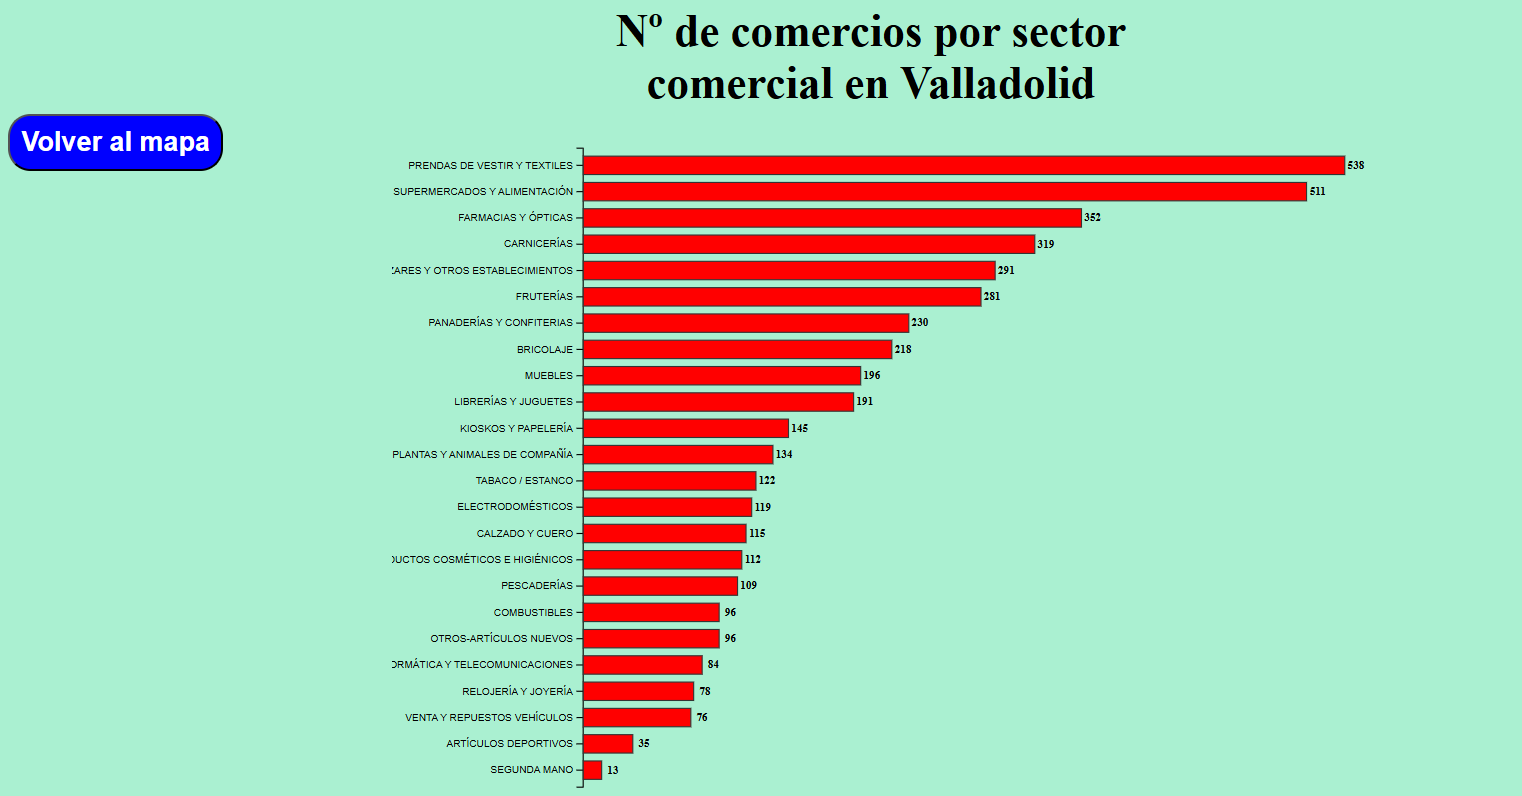
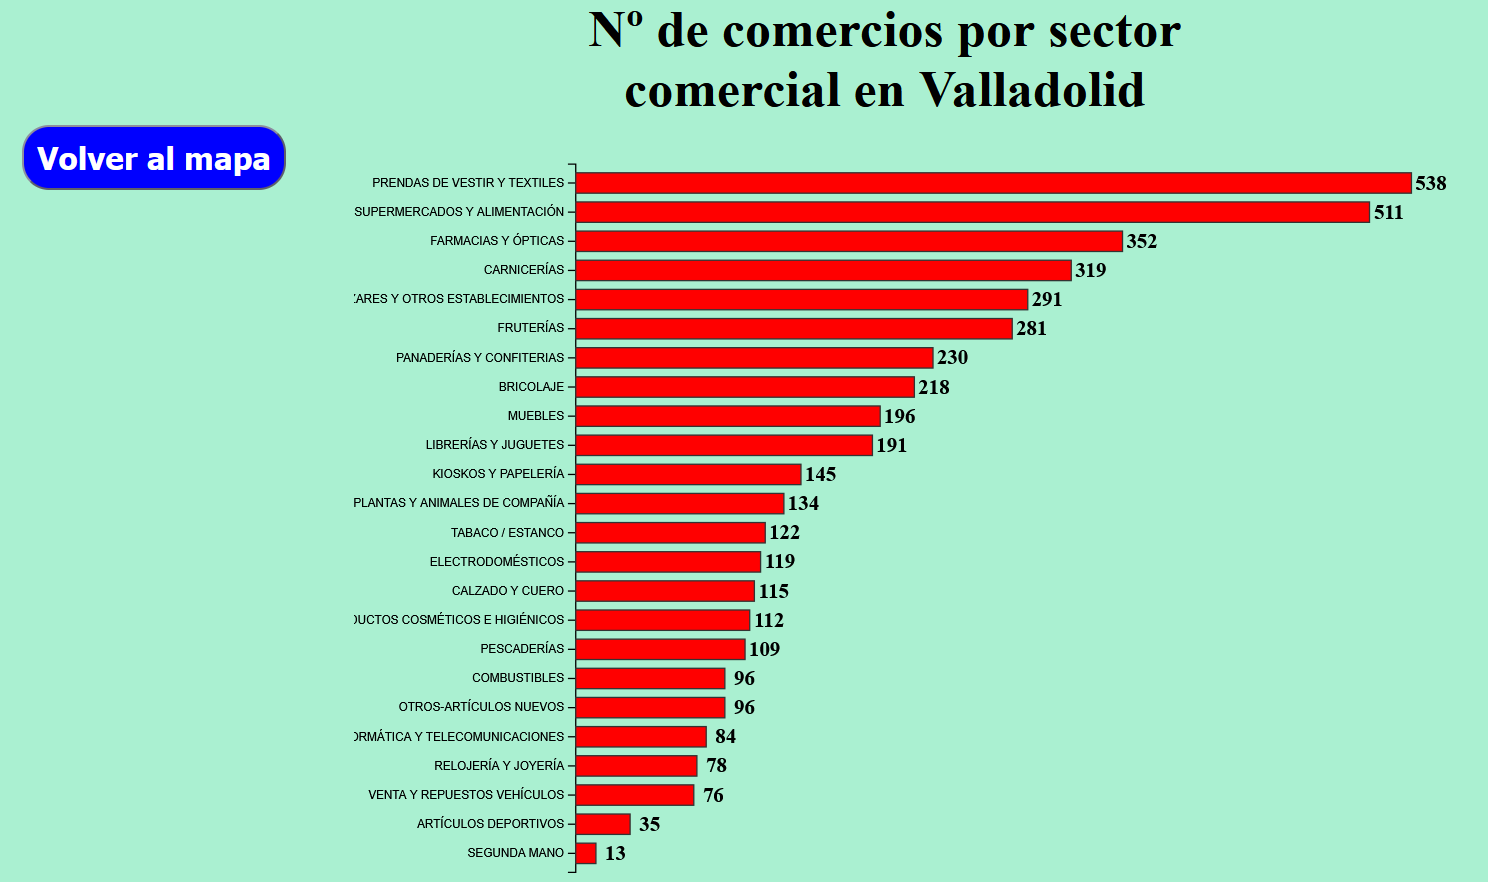
Cambiado tamaño letra etiqueta barras

Changed region(s): [[0.2473, 0.1809, 0.9892, 0.995], [0.4019, 0.0, 0.8038, 0.1206], [0.0, 0.1206, 0.2164, 0.2412]]

diff --git a/js/dibujar.js b/js/dibujar.js
@@ -135,13 +135,13 @@ function dibujarGraficoBarras(provincia) {
         .enter()
         .append("text")
         .attr("class", "label")
-        .attr("x", 10)
-        .attr("y", d => y(d.sector) + y.bandwidth() / 2 + 3)
+        .attr("x", 15)
+        .attr("y", d => y(d.sector) + y.bandwidth() / 2 + 5)
         .attr("text-anchor", "middle")
-        .style("font-size", "10px")
+        .style("font-size", "20spx")
         .style("font-weight", "bold")
         .text(d => d.cantidad)
-        .transition().delay(300).duration(2500).attr("x", d => x(d.cantidad) + 10);
+        .transition().delay(300).duration(2500).attr("x", d => x(d.cantidad) + 15);
 }
 
 /**
